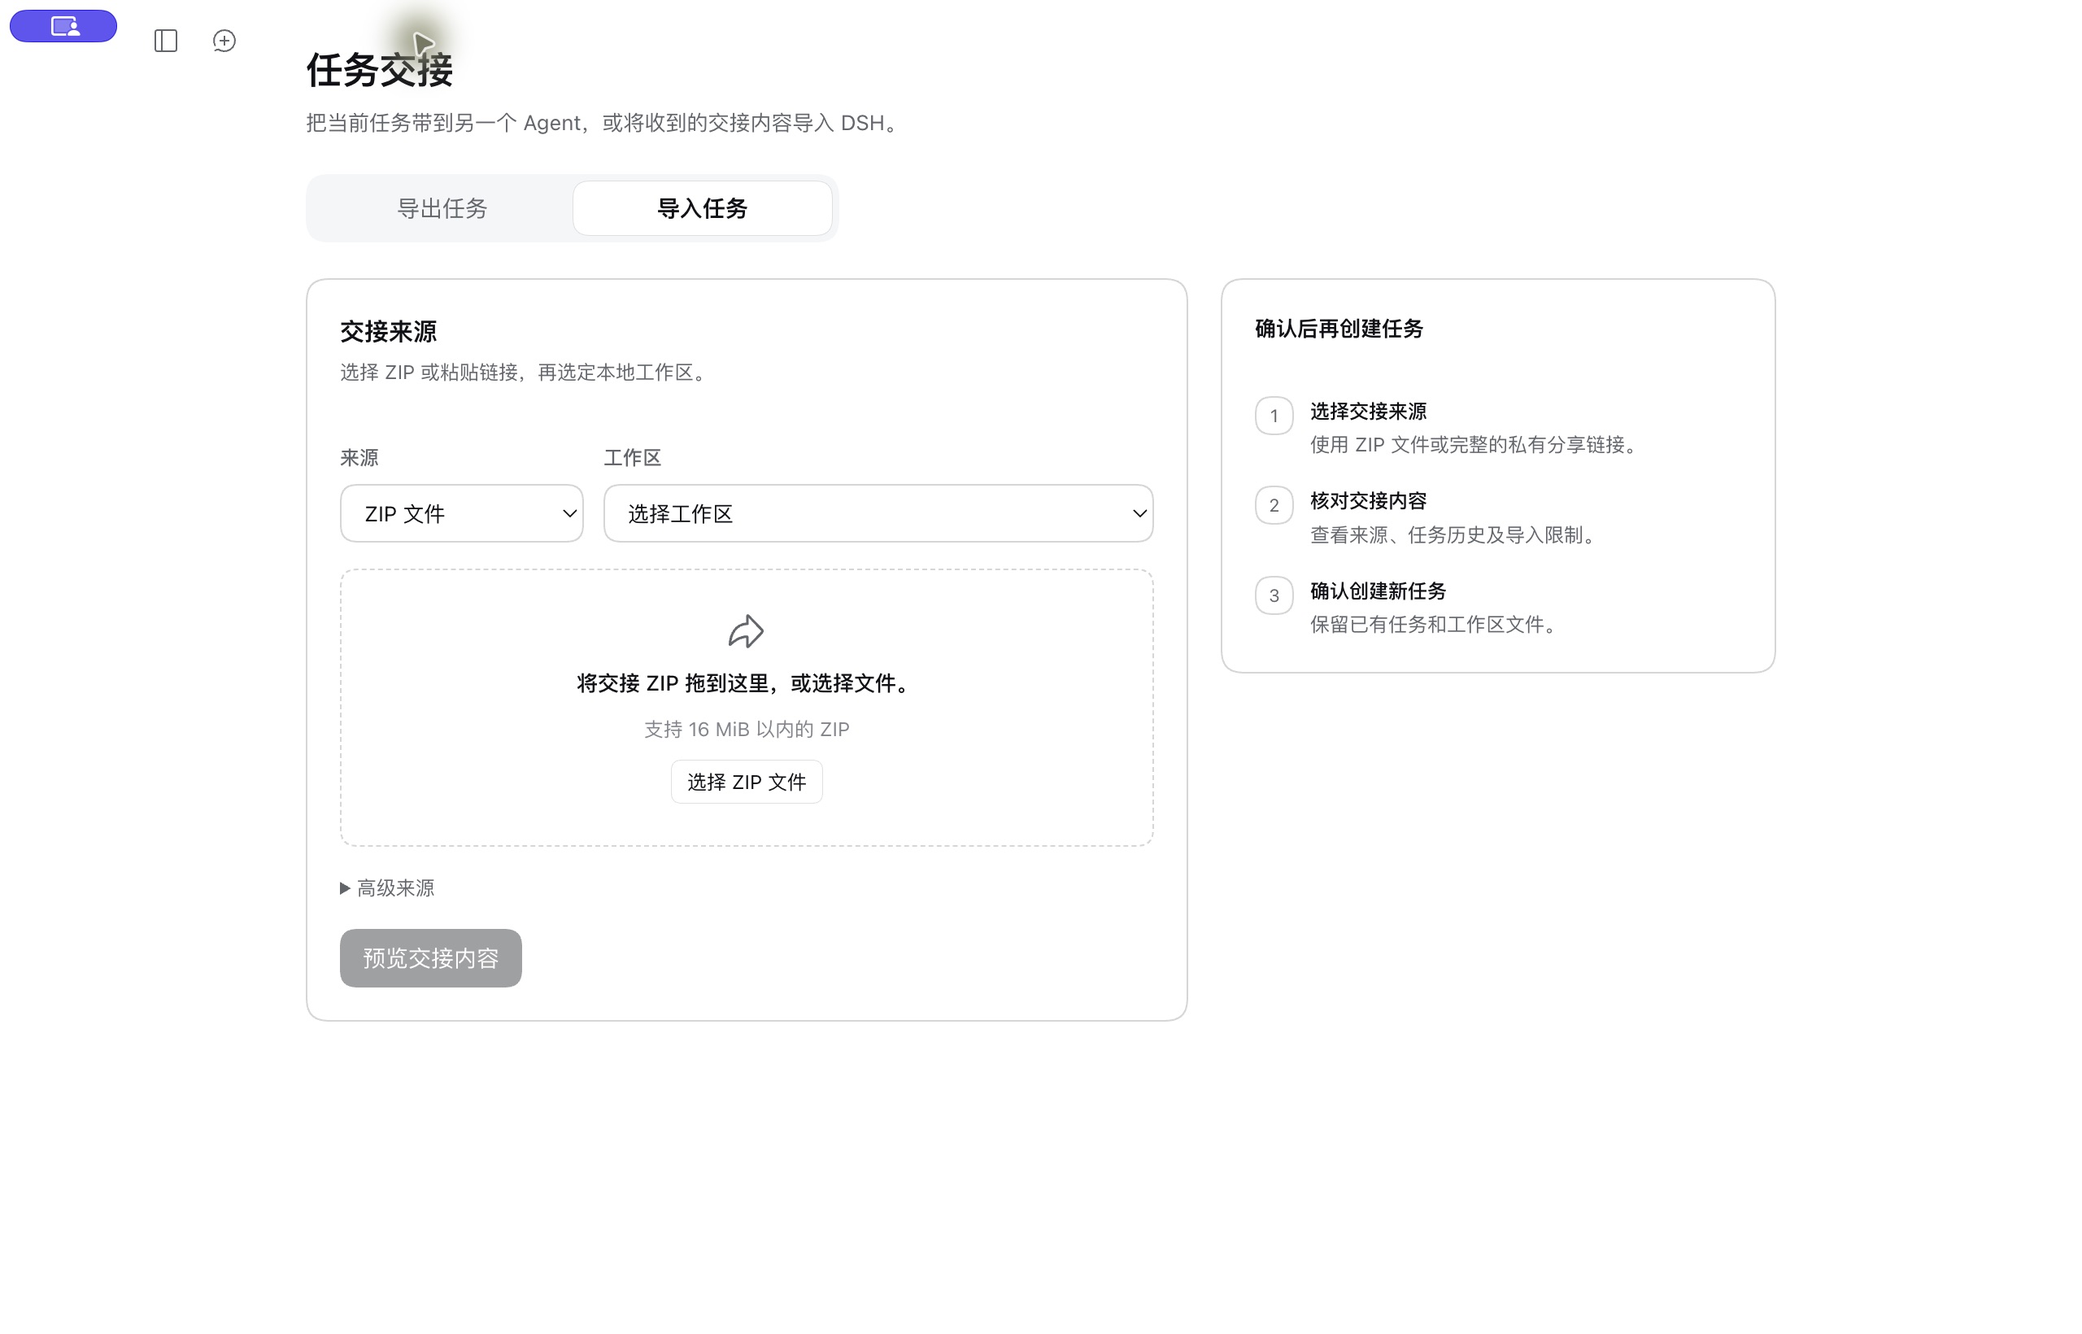
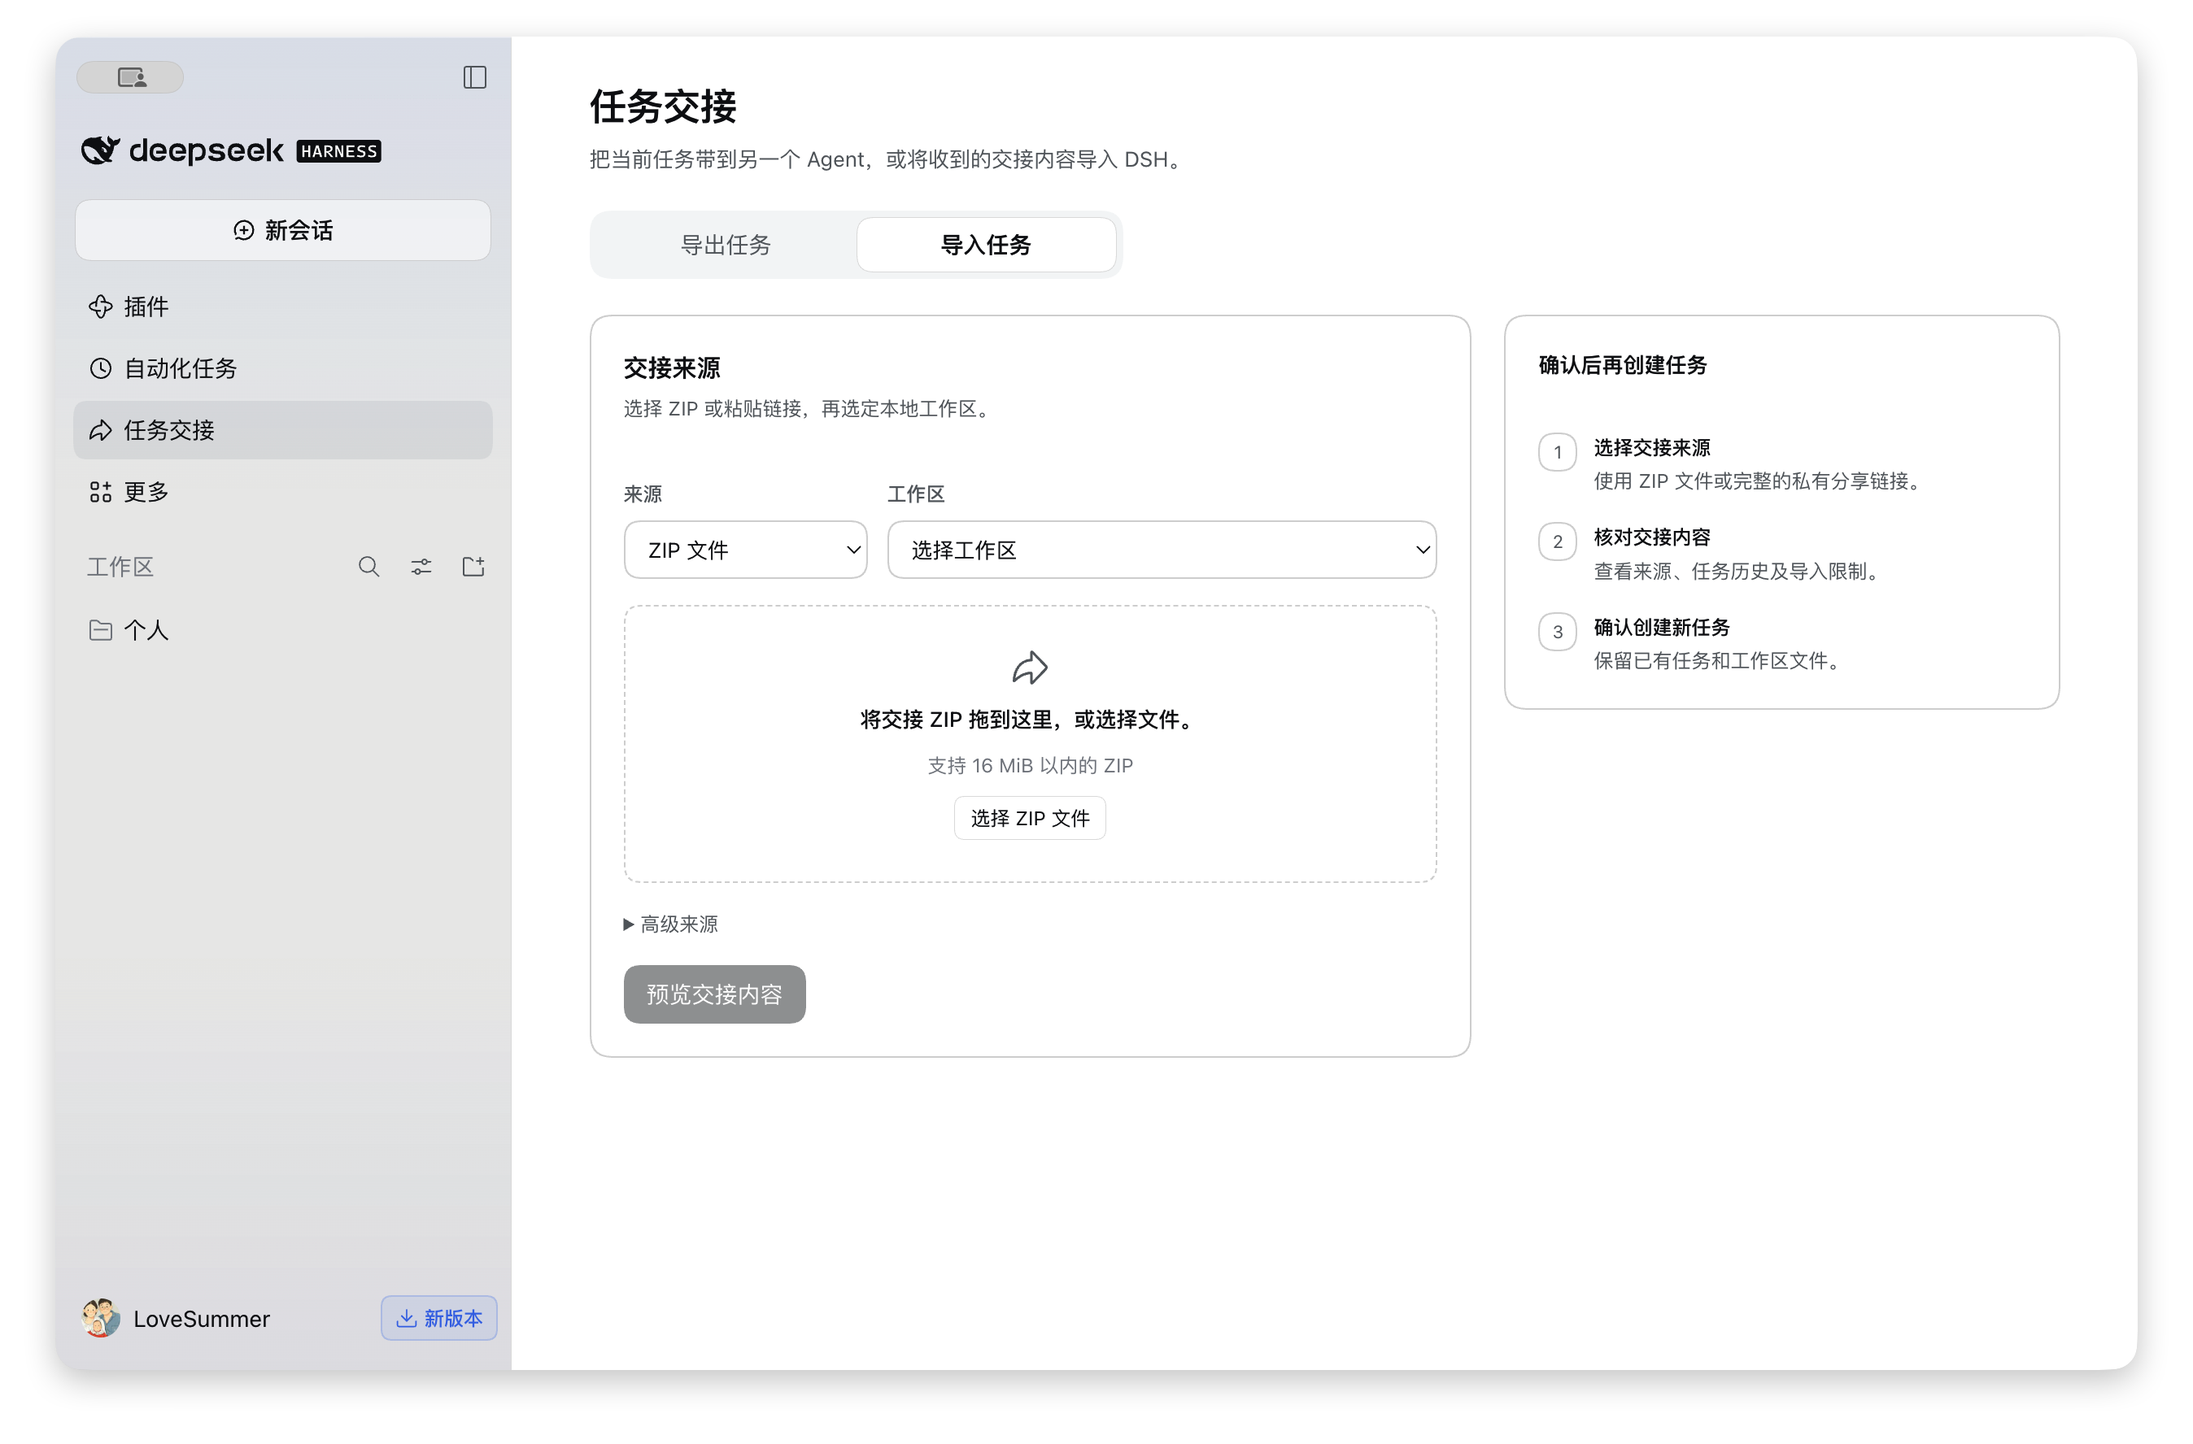
docs: simplify DSH setup and document npm installation

diff --git a/plugins/dsh/README.md b/plugins/dsh/README.md
@@ -5,38 +5,26 @@ English | [简体中文](README.zh-CN.md)
 Native **DeepSeek Harness** UI for sharing tasks as ZIP files or encrypted links,
 and importing received DSH, Codex, or Claude Code tasks into a new DSH session.
 
-## Compatibility
-
-Experimental first version: **DSH 0.2.2-rc.1 / rc.5**, Node **>=24.9.0**. Other DSH
-versions are rejected until their session and plugin APIs have been verified.
-Bundled transfer cores cover macOS/Linux x64 and arm64, and Windows x64.
-For handoffs involving DSH, both sides need agent-handoff 0.5.0 or later.
-
-DSH → DSH offers native restoration only for the reviewed passive event set.
-Ordinary DSH logs often contain system prompts, provider configuration, permission
-or plugin state; those require an explicit **Conversation and tool evidence**
-import. Codex/Claude → DSH always uses that mode. Source permissions, presets,
-queued work, credentials, media files and provider state are never restored.
-The original source log is retained privately for audit, not executed.
-
 ## Install
 
-Download `dsh-agent-handoff-0.5.0.tgz` and `checksums.txt` from
-[GitHub Releases](https://github.com/DavidDingXu/agent-handoff/releases).
-Compare the file's SHA-256 with the published checksum before installing.
-The package is not published to npm; use the downloaded file, not an npm name.
-
 For Desktop, open **Plugins → Add plugin → Install third-party plugin**, enter
-the tarball's absolute path, install and enable it. The npm CLI in rc.1 cannot
-manage the Desktop profile. Restart DSH if the new entry does not appear.
+`dsh-agent-handoff`, install and enable it. Restart DSH if the new entry does not
+appear. Package: [dsh-agent-handoff on npm](https://www.npmjs.com/package/dsh-agent-handoff).
+
+For offline installation, download `dsh-agent-handoff-0.5.0.tgz` and
+`checksums.txt` from [GitHub Releases](https://github.com/DavidDingXu/agent-handoff/releases).
+Compare the file's SHA-256 with the published checksum, then enter the tarball's
+absolute path in the same installer.
 
 For a Web profile (pnpm must be available):
 
 ```sh
-dsh plugin --profile web add /absolute/path/dsh-agent-handoff-0.5.0.tgz
+dsh plugin --profile web add dsh-agent-handoff
 ```
 
-Never reset an existing profile with `--from-default-profile` when installing.
+The Web command also accepts an absolute tarball path. The npm CLI in rc.1 cannot
+manage the Desktop profile. Never reset an existing profile with
+`--from-default-profile` when installing.
 
 ### Build from source
 
@@ -71,6 +59,20 @@ ZIP upload/download is limited to 16 MiB. A preview binds the verified content
 and selected workspace; changing either requires another preview. Opening an
 imported task does not send a prompt or run an imported tool.
 
+## Compatibility
+
+Verified with **DSH 0.2.2-rc.1 / rc.5**, Node **>=24.9.0**. Other DSH
+versions are rejected until their session and plugin APIs have been verified.
+Bundled transfer cores cover macOS/Linux x64 and arm64, and Windows x64.
+For handoffs involving DSH, both sides need agent-handoff 0.5.0 or later.
+
+DSH → DSH offers native restoration only for the reviewed passive event set.
+Ordinary DSH logs often contain system prompts, provider configuration, permission
+or plugin state; those require an explicit **Conversation and tool evidence**
+import. Codex/Claude → DSH always uses that mode. Source permissions, presets,
+queued work, credentials, media files and provider state are never restored.
+The original source log is retained privately for audit, not executed.
+
 ## Host configuration
 
 The managed profile supplies the default private state directory. Override the
@@ -89,7 +91,7 @@ plugin's `agent-handoff` row in the profile's `cordis.patch.yml` when needed:
 
 On Windows use an absolute Windows path. An unmanaged runtime must configure
 `stateDir`. Tokens belong in the existing provider configuration/environment,
-never in a handoff. See the repository's [provider documentation](../../docs/link-service.md).
+never in a handoff. See the repository's [provider documentation](https://github.com/DavidDingXu/agent-handoff/blob/main/docs/link-service.md).
 
 ## Verification
 

diff --git a/plugins/dsh/README.zh-CN.md b/plugins/dsh/README.zh-CN.md
@@ -5,32 +5,22 @@
 在 **DeepSeek Harness 原生界面**中，将任务分享为 ZIP 或加密链接；收到的 DSH、Codex
 或 Claude Code 任务可导入为新的 DSH 会话。
 
-## 兼容范围
-
-实验性首版固定支持 **DSH 0.2.2-rc.1 / rc.5**、Node **>=24.9.0**。其他 DSH 版本需验证
-会话和插件 API 后再开放。随包提供 macOS/Linux x64、arm64 和 Windows x64 传输核心。
-涉及 DSH 的交接，两端都需要 agent-handoff 0.5.0 或更新版本。
-
-DSH → DSH 仅对经过审查的被动事件提供原生恢复。普通 DSH 日志常含系统提示词、
-provider 配置、权限或插件状态，因此需要显式选择**对话与工具记录**模式。
-Codex/Claude → DSH 始终使用此模式。不会恢复来源权限、预设、待执行任务、凭据、
-媒体文件或 provider 状态；原始日志仅作为私有审计文件保存，不会执行。
-
 ## 安装
 
-从 [GitHub Releases](https://github.com/DavidDingXu/agent-handoff/releases) 下载
-`dsh-agent-handoff-0.5.0.tgz` 和 `checksums.txt`，核对文件的 SHA-256 后安装。
-目前尚未发布到 npm，请安装下载的文件，不要直接填写 npm 包名。
+桌面版打开**插件 → 添加插件 → 安装第三方插件**，填写 `dsh-agent-handoff`，安装后启用。
+新入口未出现时重启 DSH。[查看 npm 包](https://www.npmjs.com/package/dsh-agent-handoff)。
 
-桌面版打开**插件 → 添加插件 → 安装第三方插件**，填写安装包的绝对路径，安装后启用。
-rc.1 的 npm CLI 不能管理 Desktop profile。新入口未出现时重启 DSH。
+离线安装可从 [GitHub Releases](https://github.com/DavidDingXu/agent-handoff/releases) 下载
+`dsh-agent-handoff-0.5.0.tgz` 和 `checksums.txt`，核对文件的 SHA-256 后，在同一安装入口
+填写安装包的绝对路径。
 
 Web profile 使用以下命令（需要 pnpm）：
 
 ```sh
-dsh plugin --profile web add /absolute/path/dsh-agent-handoff-0.5.0.tgz
+dsh plugin --profile web add dsh-agent-handoff
 ```
 
+Web 命令也接受安装包的绝对路径。rc.1 的 npm CLI 不能管理 Desktop profile。
 安装时不要用 `--from-default-profile` 重置已有配置。
 
 ### 从源码构建
@@ -61,6 +51,17 @@ npm run check:package
 ZIP 上传／下载上限为 16 MiB。预览绑定已验证内容及目标工作区，修改后必须重新预览。
 打开导入任务不会自动发送提示词或执行历史工具。
 
+## 兼容范围
+
+已验证 **DSH 0.2.2-rc.1 / rc.5**、Node **>=24.9.0**。其他 DSH 版本需验证
+会话和插件 API 后再开放。随包提供 macOS/Linux x64、arm64 和 Windows x64 传输核心。
+涉及 DSH 的交接，两端都需要 agent-handoff 0.5.0 或更新版本。
+
+DSH → DSH 仅对经过审查的被动事件提供原生恢复。普通 DSH 日志常含系统提示词、
+provider 配置、权限或插件状态，因此需要显式选择**对话与工具记录**模式。
+Codex/Claude → DSH 始终使用此模式。不会恢复来源权限、预设、待执行任务、凭据、
+媒体文件或 provider 状态；原始日志仅作为私有审计文件保存，不会执行。
+
 ## 宿主配置
 
 托管 profile 自动提供私有状态目录。需要自定义时，在 profile 的
@@ -78,7 +79,7 @@ ZIP 上传／下载上限为 16 MiB。预览绑定已验证内容及目标工作
 ```
 
 Windows 使用本机绝对路径；非托管运行时必须配置 `stateDir`。Token 放在既有 provider
-配置或环境变量中，不写入交接内容。详见仓库的 [provider 文档](../../docs/link-service.zh-CN.md)。
+配置或环境变量中，不写入交接内容。详见仓库的 [provider 文档](https://github.com/DavidDingXu/agent-handoff/blob/main/docs/link-service.zh-CN.md)。
 
 ## 验证
 

diff --git a/docs/ROADMAP.zh-CN.md b/docs/ROADMAP.zh-CN.md
@@ -7,7 +7,7 @@ agent-handoff 的目标，是让用户在换人、换机器、换编码智能体
 ## 当前安排（2026-11-19）
 
 - 维护现有 Codex 和 Claude Code 交接路径。
-- 交付并验证实验性的 [DSH 原生插件](../plugins/dsh/README.zh-CN.md)，固定支持 DSH 0.2.2-rc.1 / rc.5，包含原生分享／导入界面和新会话安全续聊（[#10](https://github.com/DavidDingXu/agent-handoff/issues/10)）。
+- 交付并验证 [DSH 原生插件](../plugins/dsh/README.zh-CN.md)，固定支持 DSH 0.2.2-rc.1 / rc.5，包含原生分享／导入界面和新会话安全续聊（[#10](https://github.com/DavidDingXu/agent-handoff/issues/10)）。
 - [OpenCode 接入（#9）](https://github.com/DavidDingXu/agent-handoff/issues/9)、[安装与 provider 诊断（#11）](https://github.com/DavidDingXu/agent-handoff/issues/11)、[更完整的分享前预览（#12）](https://github.com/DavidDingXu/agent-handoff/issues/12) 暂缓，三个 issue 当前按 `not_planned` 关闭，后续调整优先级时可以重新打开。
 
 ## 产品原则
@@ -40,7 +40,7 @@ agent-handoff 的目标，是让用户在换人、换机器、换编码智能体
 - 链接服务不可用时，总能返回其他有效加密路径或明确的本地 zip。
 - 新用户只依赖 README 就能完成一次冷启动交接。
 
-## 实验性接入：DeepSeek Harness
+## DeepSeek Harness 接入
 
 **用户结果：** 用户可以在日常使用的多个编码智能体之间迁移真实任务，并保留目标宿主的
 原生继续体验。

diff --git a/ROADMAP.md b/ROADMAP.md
@@ -8,7 +8,7 @@ fixed feature checklist. It does not promise release dates.
 ## Current focus (2026-11-19)
 
 - Maintain the existing Codex and Claude Code handoff paths.
-- Deliver and validate the experimental [native DSH plugin](plugins/dsh/README.md), pinned to DSH 0.2.2-rc.1 / rc.5, with native share/import UI and safe fresh-session continuation ([#10](https://github.com/DavidDingXu/agent-handoff/issues/10)).
+- Deliver and validate the [native DSH plugin](plugins/dsh/README.md), pinned to DSH 0.2.2-rc.1 / rc.5, with native share/import UI and safe fresh-session continuation ([#10](https://github.com/DavidDingXu/agent-handoff/issues/10)).
 - Defer [OpenCode support (#9)](https://github.com/DavidDingXu/agent-handoff/issues/9), [setup/provider diagnostics (#11)](https://github.com/DavidDingXu/agent-handoff/issues/11), and [richer pre-share preview (#12)](https://github.com/DavidDingXu/agent-handoff/issues/12). These issues are closed as `not_planned` for now and may be reopened when priorities change.
 
 ## Product principles
@@ -46,7 +46,7 @@ Success signals:
   route or an explicit local zip result.
 - A cold-start walkthrough can be completed from the README alone.
 
-## Experimental: DeepSeek Harness integration
+## DeepSeek Harness integration
 
 **Outcome:** enable users to move a live task among the coding agents they
 actually use while preserving each host's native resume experience.

diff --git a/docs/usage.zh-CN.md b/docs/usage.zh-CN.md
@@ -177,7 +177,7 @@ make build     # bin/agent-handoff
 
 CI 在 Ubuntu/macOS/Windows 上带 `-race` 跑测试。架构：`internal/bundle`（容器格式）、`internal/{codex,claude}`（智能体适配器）、`internal/neutral`（跨智能体转录）、`internal/link`（端到端加密 + 兼容 hosted endpoint 和配置化 Provider）、`internal/safety`（密钥扫描）、`internal/cli`。新增智能体还要实现原生恢复、中立转换、宿主探测和跨智能体测试矩阵，详见 [新增其他智能体](adding-agent.zh-CN.md)。
 
-当前跟进固定版本下的实验性 [DSH 原生插件](../plugins/dsh/README.zh-CN.md) 验证与维护；OpenCode 接入、
+当前跟进固定版本下的 [DSH 原生插件](../plugins/dsh/README.zh-CN.md) 验证与维护；OpenCode 接入、
 安装诊断和更完整的分享前预览暂缓，详见面向用户结果的[路线图](ROADMAP.zh-CN.md)。
 
 欢迎贡献，见 [CONTRIBUTING.zh-CN.md](CONTRIBUTING.zh-CN.md)（[English](../CONTRIBUTING.md)）。License：Apache-2.0。

diff --git a/README.zh-CN.md b/README.zh-CN.md
@@ -29,16 +29,13 @@ claude plugin install agent-handoff@agent-handoff
 
 发送方和接收方均安装或更新至 **0.5.0**，然后重启智能体。
 
-### DeepSeek Harness · 实验性支持
+### DeepSeek Harness
 
-支持 **DSH 0.2.2-rc.1 / rc.5**、Node **>=24.9.0**。
+1. 在 DSH 打开**插件 → 添加插件 → 安装第三方插件**。
+2. 填写 `dsh-agent-handoff`，安装后启用。
 
-1. 从 [Releases](https://github.com/DavidDingXu/agent-handoff/releases) 下载 `dsh-agent-handoff-0.5.0.tgz`。
-2. 在 DSH 打开**插件 → 添加插件 → 安装第三方插件**。
-3. 填写下载文件的绝对路径，安装后启用。
-
-目前没有可直接安装的 npm 包名。Web profile 命令与源码构建见
-[DSH 安装指南](plugins/dsh/README.zh-CN.md)。
+[npm 包](https://www.npmjs.com/package/dsh-agent-handoff) ·
+[离线安装、Web profile 与源码构建](plugins/dsh/README.zh-CN.md)。
 
 ## 使用
 

diff --git a/docs/usage.md b/docs/usage.md
@@ -188,7 +188,7 @@ paid model requests. `CODEX_BIN` and `CLAUDE_BIN` can select specific executable
 
 CI runs tests with `-race` on Ubuntu/macOS/Windows. Architecture: `internal/bundle` (container format), `internal/{codex,claude}` (agent adapters), `internal/neutral` (cross-agent transcript), `internal/link` (E2E crypto + compatible hosted endpoints and configured providers), `internal/safety` (secret scan), `internal/cli`. Adding another agent also requires native restore, neutral conversion, host detection, and the cross-agent test matrix; see [docs/adding-agent.md](adding-agent.md).
 
-Current follow-up is validating and maintaining the experimental native
+Current follow-up is validating and maintaining the native
 [DSH plugin](../plugins/dsh/README.md) against its pinned runtime. OpenCode support, setup diagnostics, and richer
 pre-share review are deferred. See the outcome-focused [roadmap](../ROADMAP.md).
 

diff --git a/README.md b/README.md
@@ -30,16 +30,13 @@ claude plugin install agent-handoff@agent-handoff
 
 Install or update to **0.5.0** on both sides, then restart the agent.
 
-### DeepSeek Harness · experimental
+### DeepSeek Harness
 
-Supports **DSH 0.2.2-rc.1 / rc.5**, Node **>=24.9.0**.
+1. Open **Plugins → Add plugin → Install third-party plugin** in DSH.
+2. Enter `dsh-agent-handoff`, install and enable it.
 
-1. Download `dsh-agent-handoff-0.5.0.tgz` from [Releases](https://github.com/DavidDingXu/agent-handoff/releases).
-2. In DSH, open **Plugins → Add plugin → Install third-party plugin**.
-3. Enter the downloaded file's absolute path and enable the plugin.
-
-No npm package name is available yet. Web profile commands and source builds:
-[DSH guide](plugins/dsh/README.md).
+[npm package](https://www.npmjs.com/package/dsh-agent-handoff) ·
+[Offline install, Web profiles & source builds](plugins/dsh/README.md).
 
 ## Use
 

diff --git a/AGENTS.md b/AGENTS.md
@@ -45,6 +45,10 @@ before adding another source or target agent.
 - Keep macOS, Linux, and Windows support. Do not introduce POSIX-only path,
   shell, permission, quoting, or environment assumptions.
 - Keep English and Simplified Chinese user documentation in sync.
+- Keep the main README focused on installation and use. Put exact SDK/Node
+  versions and validation limits in the detailed compatibility documentation.
+- Use clean product screenshots without mouse pointers, click halos, private
+  task history or share links in published documentation.
 - Keep DSH export and import in clearly separated views, using the host's theme
   and native controls with a compact, responsive layout. Verify the actual
   installed interface as well as component tests when changing this flow.
